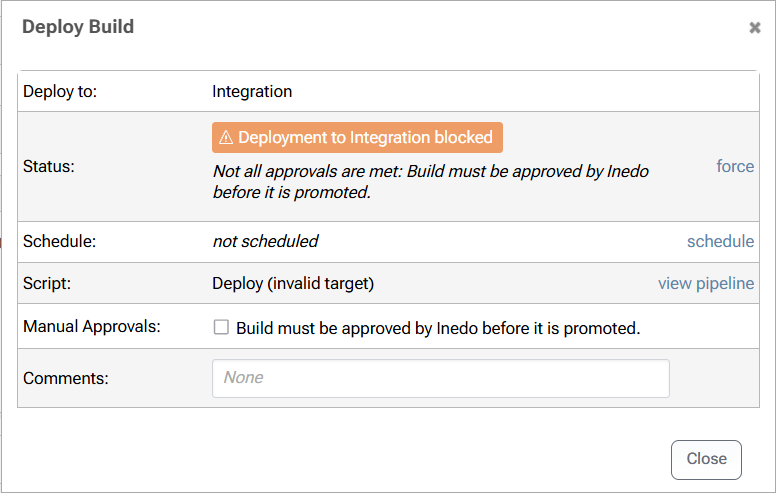
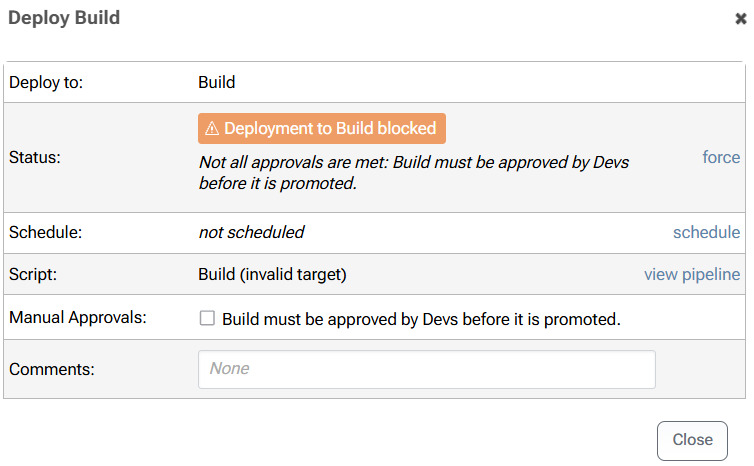
changed user name, added sections, removed images

diff --git a/Content/BuildMaster/deployment-continuous-delivery/automated-testing-verification-automatic-manual-approvals/buildmaster-ci-cd-testing-and-verification-approvals-user-approvals.md b/Content/BuildMaster/deployment-continuous-delivery/automated-testing-verification-automatic-manual-approvals/buildmaster-ci-cd-testing-and-verification-approvals-user-approvals.md
@@ -22,7 +22,7 @@ Next, select "Add a stage requirement" under Build Stage.
 The Stage Requirement Check window will populate. Select "Add Manual Approval".
 
 
-![Stage Requirement](/resources/docs/BuildMaster-Pipeline-StageRequirement.png){height="" width="70%"}
+![Stage Requirement](/resources/docs/BuildMaster-Pipeline-StageRequirement.png){height="" width="65%"}
 From here, you can configure your user approval.
 
 
@@ -35,7 +35,7 @@ Afterwards, a commit prompt will populate at the top of the page. Select "Commit
 After the user approval is committed, you can view it by clicking on the relevant stage in the pipeline.
 
 
-![User Approval](/resources/docs/BuildMaster-Pipeline-DeployBuild-Approval.png){height="" width="70%"}
+![User Approval](/resources/docs/BuildMaster-Pipeline-DeployBuild-Approval.png){height="" width="65%"}
 
 ## Forcing a Build Past an Approval
 
@@ -45,7 +45,7 @@ When a build requires an approval, the build pipeline will look like the image b
 
 To force a build past an approval, navigate to the Build Pipeline page and select "force" under the relevant pipeline stage.
 
-![User Approval](/resources/docs/BuildMaster-Pipeline-DeployBuild-force.png){height="" width="70%"}
+![Force Approval](/resources/docs/BuildMaster-Pipeline-DeployBuild-force.png){height="" width="70%"}
 
 You will also be able to leave a comment when forcing the build.
 
